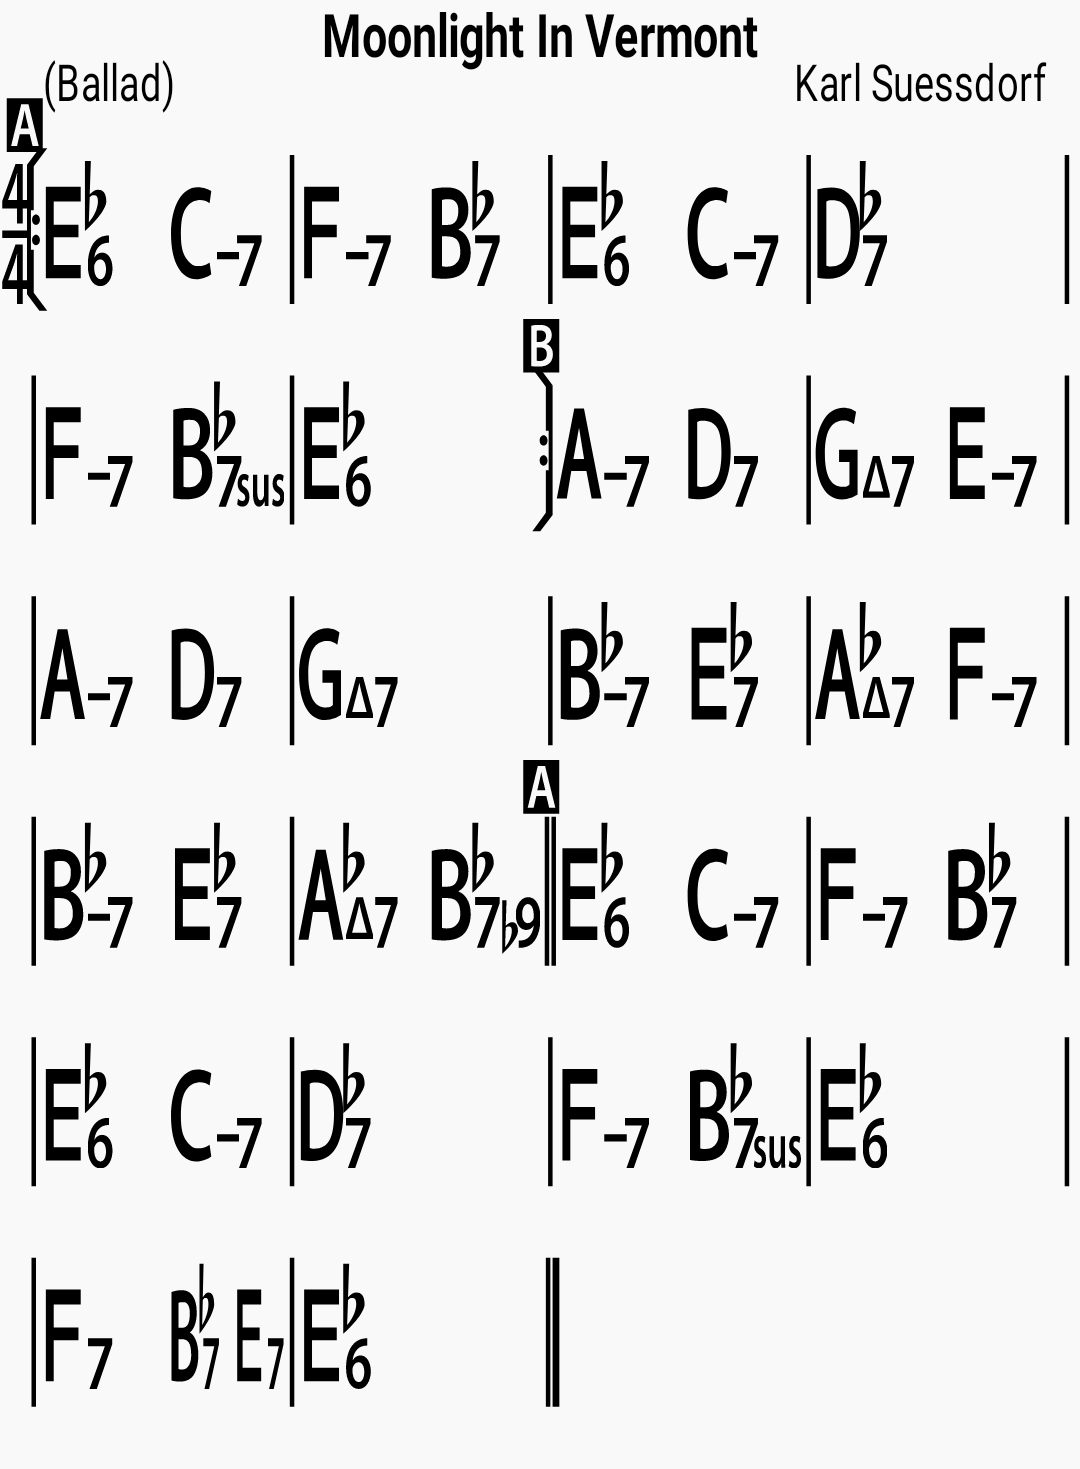
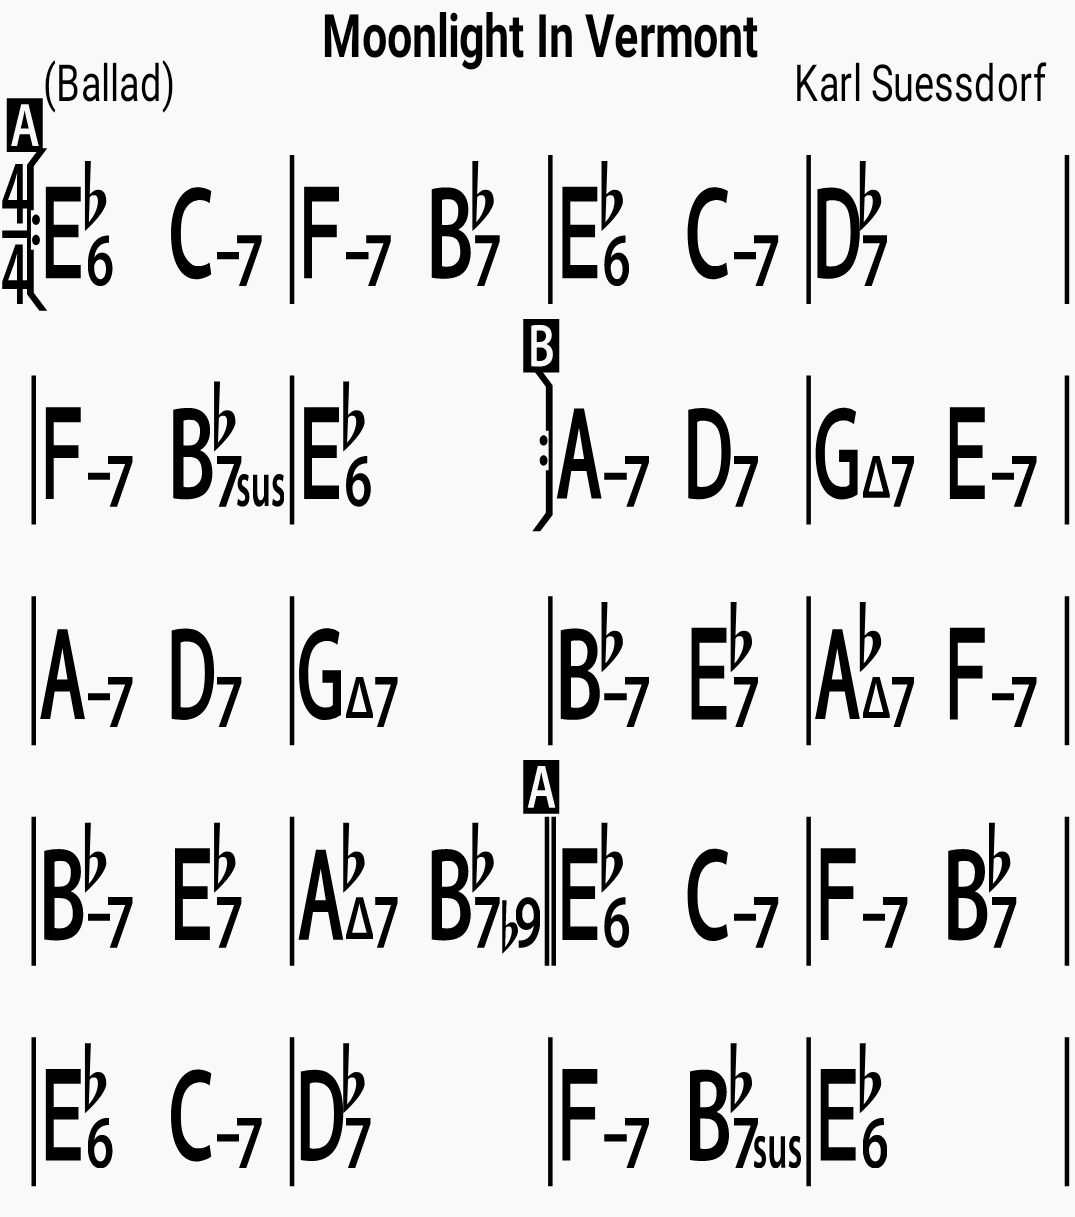
Update Moonlight In Vermont mistakes and short descriptions

diff --git a/content/moonlight-in-vermont.md b/content/moonlight-in-vermont.md
@@ -2,9 +2,9 @@ Title: Moonlight In Vermont
 Date: 2019-07-30 09:00
 Category: Standards
 Composer: Karl Suessdorf
-Brief:
+Brief: Lyrical but unusual ballad with a 24 bar form and short A sections
 Time: 4/4
-Length: 38
+Length: 26
 Form: AABA
 Style: Swing
 Key: Eb

diff --git a/content/hot-house.md b/content/hot-house.md
@@ -2,6 +2,7 @@ Title: Hot House
 Date: 2019-07-30 09:00
 Category: Standards
 Composer: Tadd Dameron
+Brief: Bebop contrafact on What Is This Thing Called Love full of chromaticism
 Time: 4/4
 Length: 32
 Form: AABA
